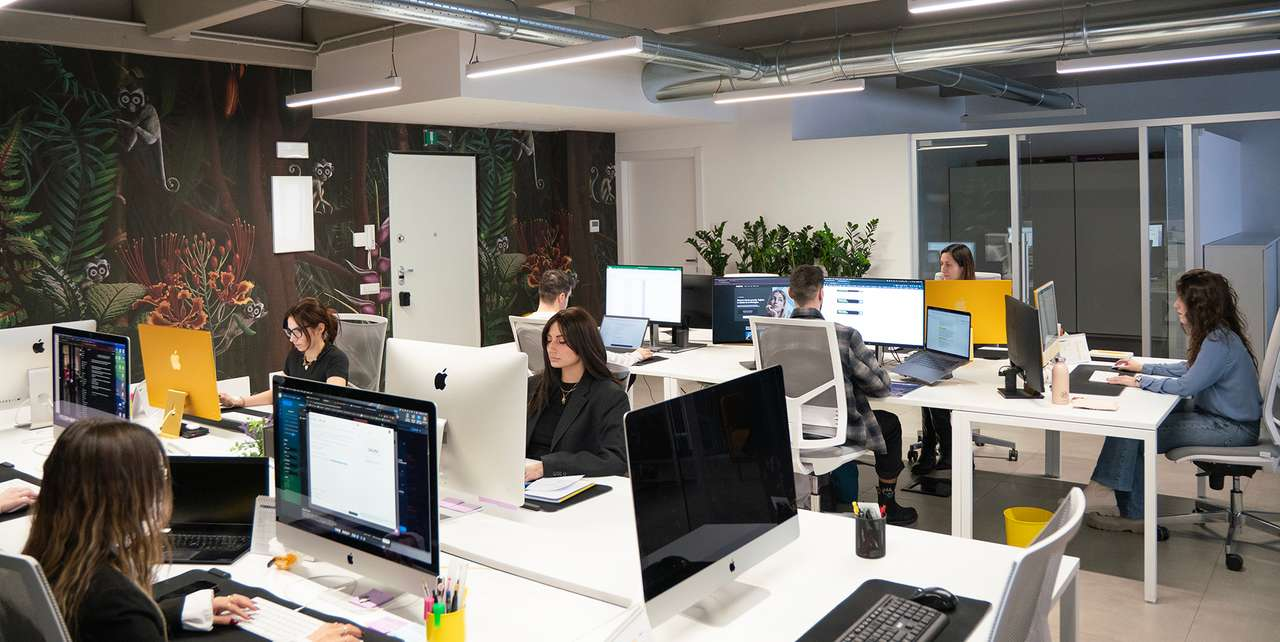
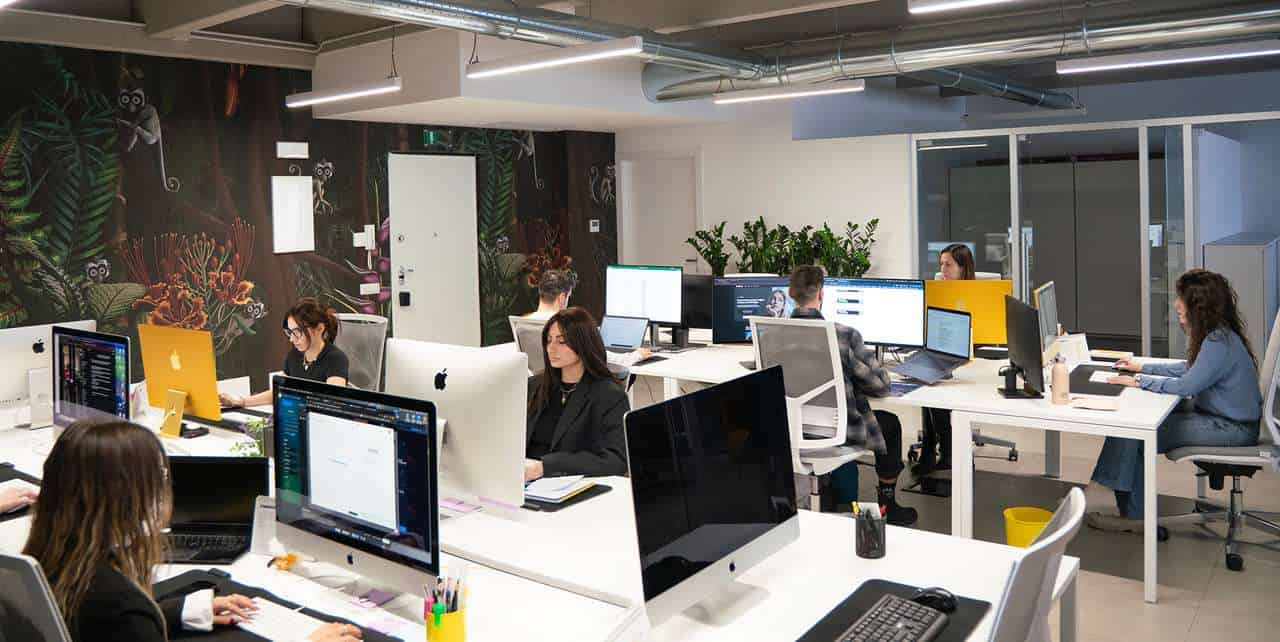
perf: enable critters CSS inlining, compress hero to 58KB, drop legacy polyfills via modern browserslist

diff --git a/next.config.ts b/next.config.ts
@@ -1,9 +1,12 @@
 import type { NextConfig } from "next";
 
 const nextConfig: NextConfig = {
+  experimental: {
+    optimizeCss: true,
+  },
   images: {
     formats: ['image/avif', 'image/webp'],
-    deviceSizes: [320, 640, 750, 828, 1080, 1200, 1920, 2048, 3840],
+    deviceSizes: [360, 640, 828, 1080, 1200, 1920],
     remotePatterns: [
       {
         protocol: 'https',
